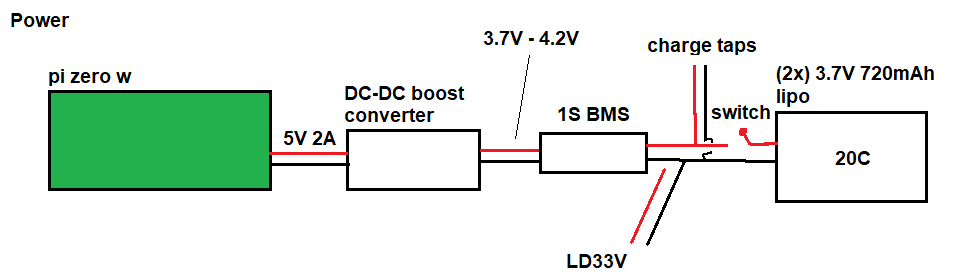
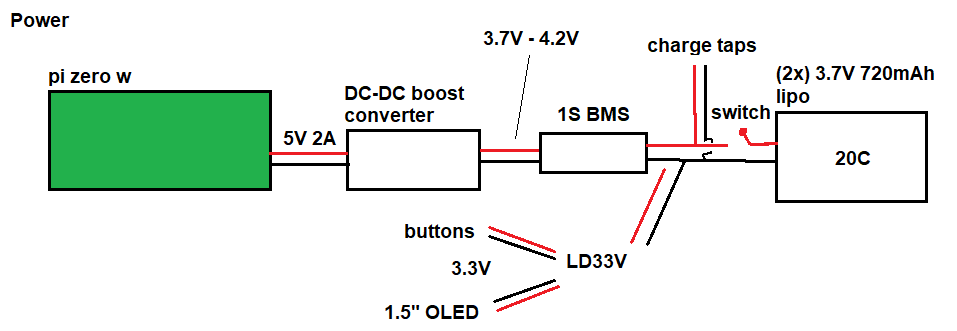
taking notes

diff --git a/TASKLIST.md b/TASKLIST.md
@@ -1,0 +1,17 @@
+- [ ] solder male header pins to pi zero w
+- [ ] solder female to proto pcb
+- [ ] solder 6 buttons for d-pad, back button on another pcb
+- [ ] solder button for shutter
+- [ ] pick digital pins and wire up
+- [ ] wire oled up (uses 3.3V power)
+
+- [ ] design case
+
+- [ ] test OLED display output
+- [ ] bind buttons to runtime
+- [ ] design menu
+- [ ] build menu rendering state manager
+- [ ] create slow frame-by-frame camera loop for zoom
+
+- [ ] RN mobile app with bluetooth
+- [ ] file transfer

diff --git a/README.md b/README.md
@@ -10,4 +10,4 @@ I intend to do a slow frame-by-frame image crop/display on the OLED to be able t
 
 $185.00 (using 35mm lens, major components only)
 
-See hardware folder for more info
+See `/camera/hardware` folder for more info
